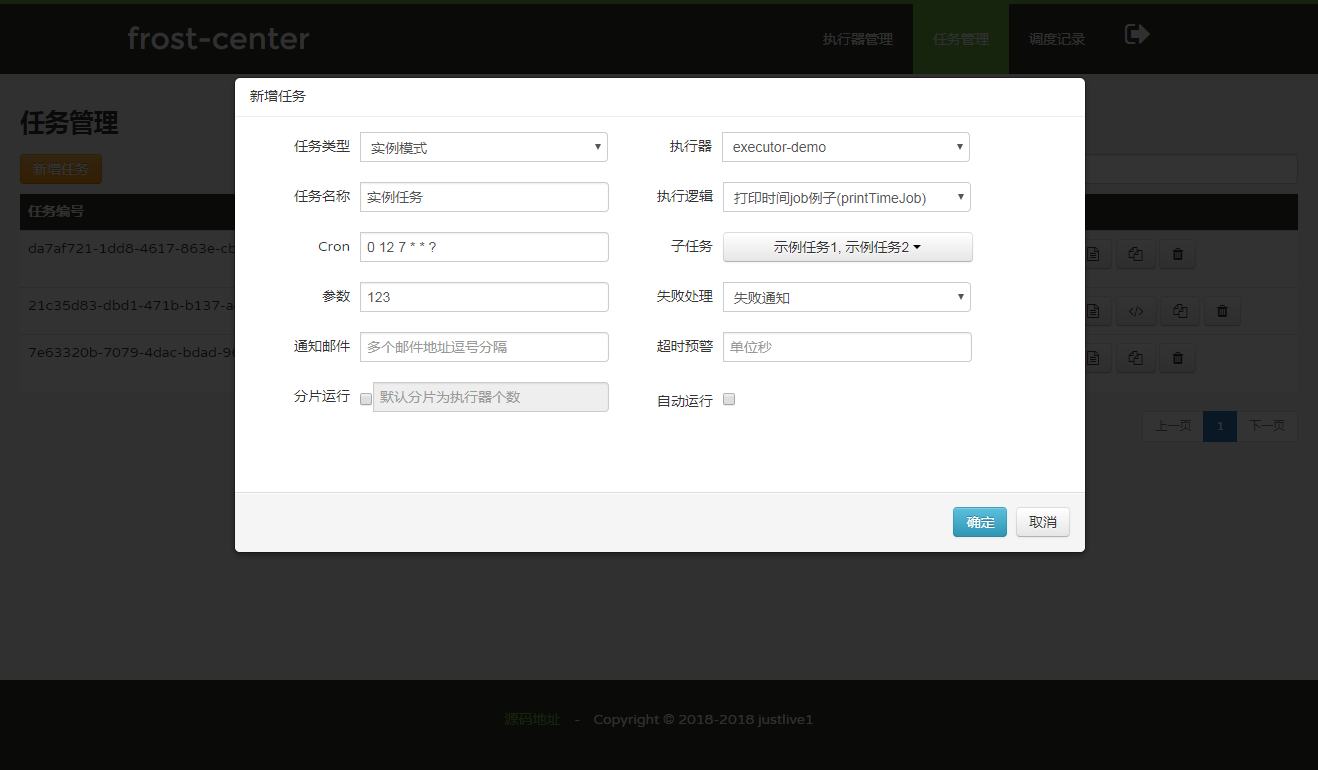
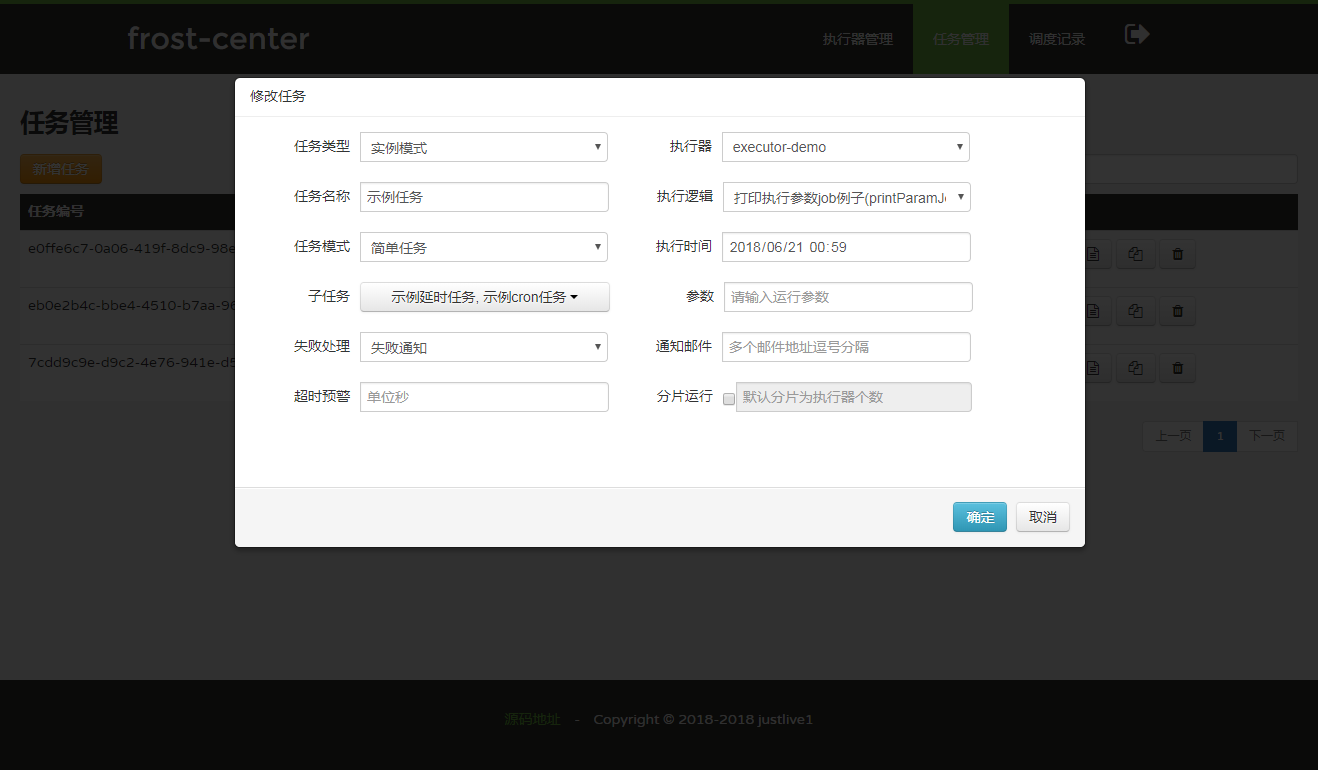
增加simpleTrigger说明

diff --git a/README.md b/README.md
@@ -228,9 +228,15 @@ redisson.dnsMonitoringInterval=5000
 任务名称：任务的名称，描述任务以便于管理
 执行器：指定运行在哪个执行器分组
 执行器逻辑：指定任务运行的bean
-cron：触发任务的表达式
-参数：运行任务的参数，字符串格式，执行逻辑可通过JobContext::getParam获取参数
+任务模式：
+	cron任务：支持cron表达式的定时任务
+	简单任务：选择日期时间定时执行（当时间早于当前时间则立即执行）
+	延时任务：启动任务后，固定延时执行任务
+cron：触发任务的表达式（cron任务模式）
+执行时间：选择执行的时间，精确到分（为什么不支持到秒？1.没有必要，2.h5的datetime-local仅支持到分，懒得用日期插件了）（简单任务模式）
+延时：启动后延时时间，执行间隔时间，单位秒（延时任务模式）
 子任务：可在任务列表中选择已创建的任务，当本任务执行成功时，将会触发子任务的一次主动调度
+参数：运行任务的参数，字符串格式，执行逻辑可通过JobContext::getParam获取参数
 失败处理：
 	失败通知（默认）：调度或执行失败后，触发通知，默认提供了邮件，可继承AbstractEventNotifier进行扩展
 	失败重试：调度或执行失败后，会主动再次调度或执行
@@ -257,6 +263,8 @@ cron：触发任务的表达式
 #### 2.在调度中心，新建任务
 参考上述任务配置属性说明，任务类型选择实例模式，执行器选择执行器配置中frost.job.executor.key的值，执行逻辑选择@Job注解定义的值
 ![添加任务](https://gitee.com/justlive1/earth-frost/raw/master/images/addJob.jpeg)
+![添加cron任务](https://gitee.com/justlive1/earth-frost/raw/master/images/addCronJob.jpeg)
+![添加延时任务](https://gitee.com/justlive1/earth-frost/raw/master/images/addDelayJob.jpeg)
 
 ### 开发脚本模式任务
 
